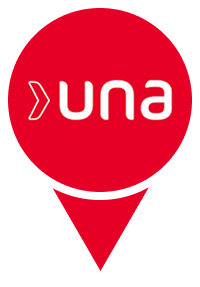
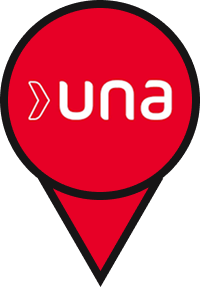
novos marcadores e atualizacao no style

Changed region(s): [[0.0, 0.0, 1.0, 1.0]]

diff --git a/index.html b/index.html
@@ -25,10 +25,10 @@
   <div class="sidebar">
     <div id="region-filters">
       <div class="filter-row">
-        <button class="region-btn" data-region="São Paulo" data-center='[-46.6333, -23.5505]' data-zoom='8'>São Paulo</button>
+        <button class="region-btn" data-region="São Paulo" data-center='[-46.6360, -23.4380]' data-zoom='8'>SP</button>
         <button class="region-btn" data-region="MG" data-center='[-43.9320, -19.9175]' data-zoom='6.5'>MG/RJ/GO</button>
-        <button class="region-btn" data-region="SUL" data-center='[-48.5279, -27.5806]' data-zoom='6.5'>Sul</button>
-        <button class="region-btn" data-region="NORDESTE" data-center='[-38.1528, -8.2850]' data-zoom='6.5'>Nordeste</button>
+        <button class="region-btn" data-region="SUL" data-center='[-48.5279, -27.5806]' data-zoom='6.5'>SUL</button>
+        <button class="region-btn" data-region="NORDESTE" data-center='[-38.1528, -8.2850]' data-zoom='6.5'>NORDESTE</button>
       </div>
     </div>
 

diff --git a/scripts/script.js b/scripts/script.js
@@ -7,7 +7,7 @@ const map = new mapboxgl.Map({
     style: 'mapbox://styles/ygorrecurt/cmdw6ja4w002e01qo3y2zbifs',
     center: [-46.6333, -23.5505],
     zoom: 10,
-    minZoom: 6,
+    minZoom: 5,
     maxZoom: 18,
     maxBounds: [[-74.0, -34.0], [-32.0, 5.0]],
     config: {

diff --git a/styles/style.css b/styles/style.css
@@ -21,7 +21,7 @@ body {
   position: absolute;
   top: 10%;
   height: 80%;
-  width: 380px;
+  width: 300px;
   border-radius: 0 12px 12px 0;
   display: flex;
   flex-direction: column;
